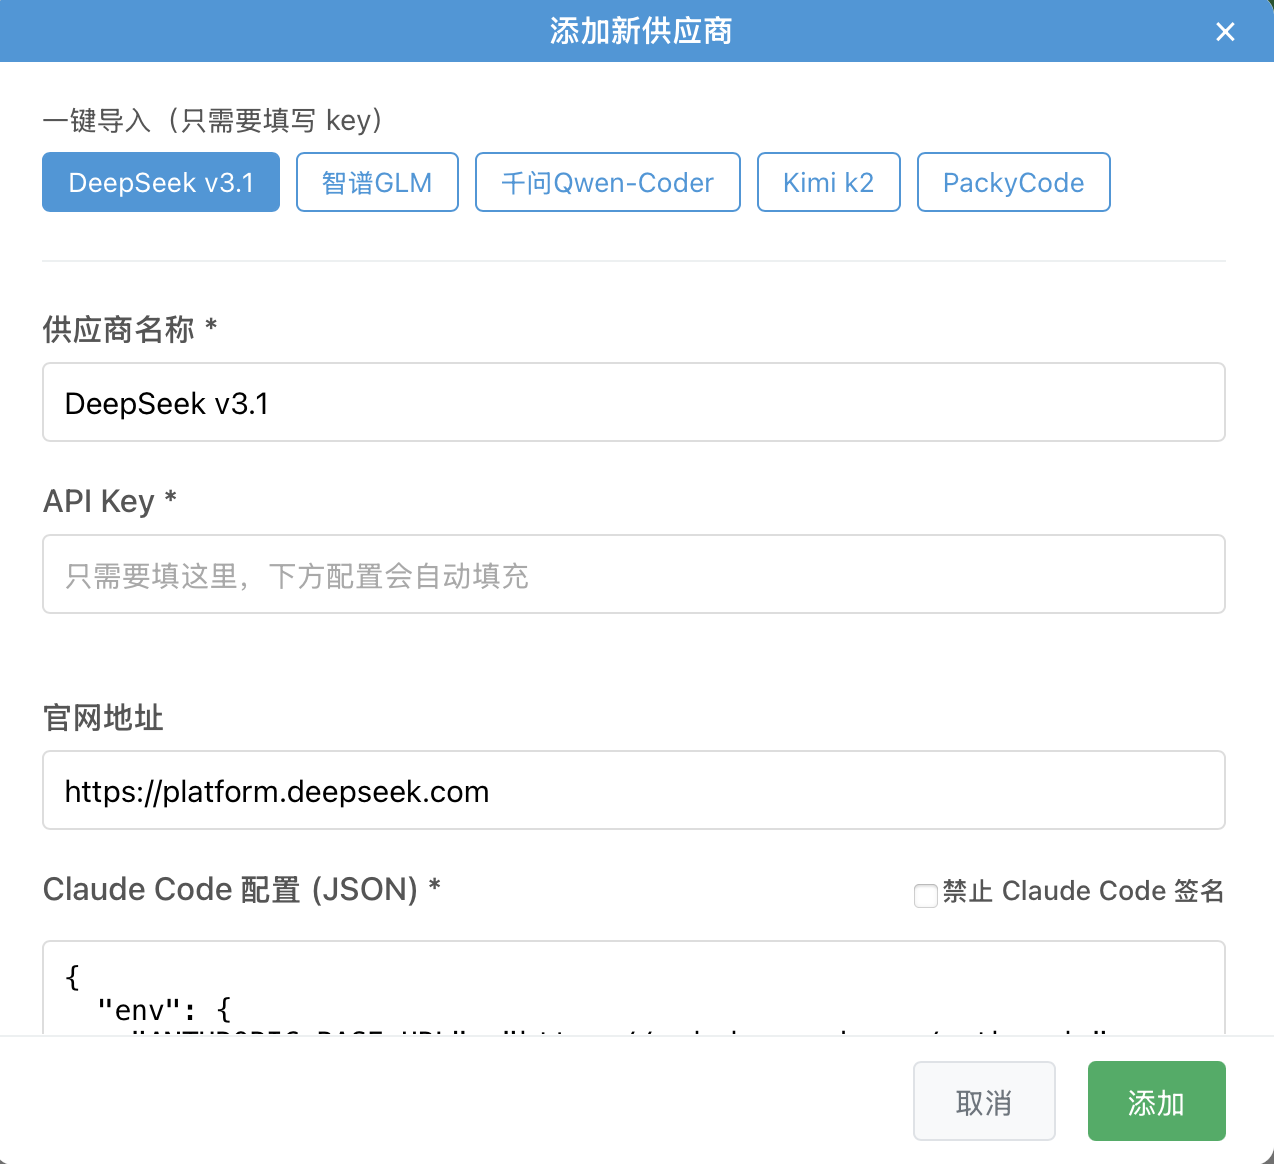
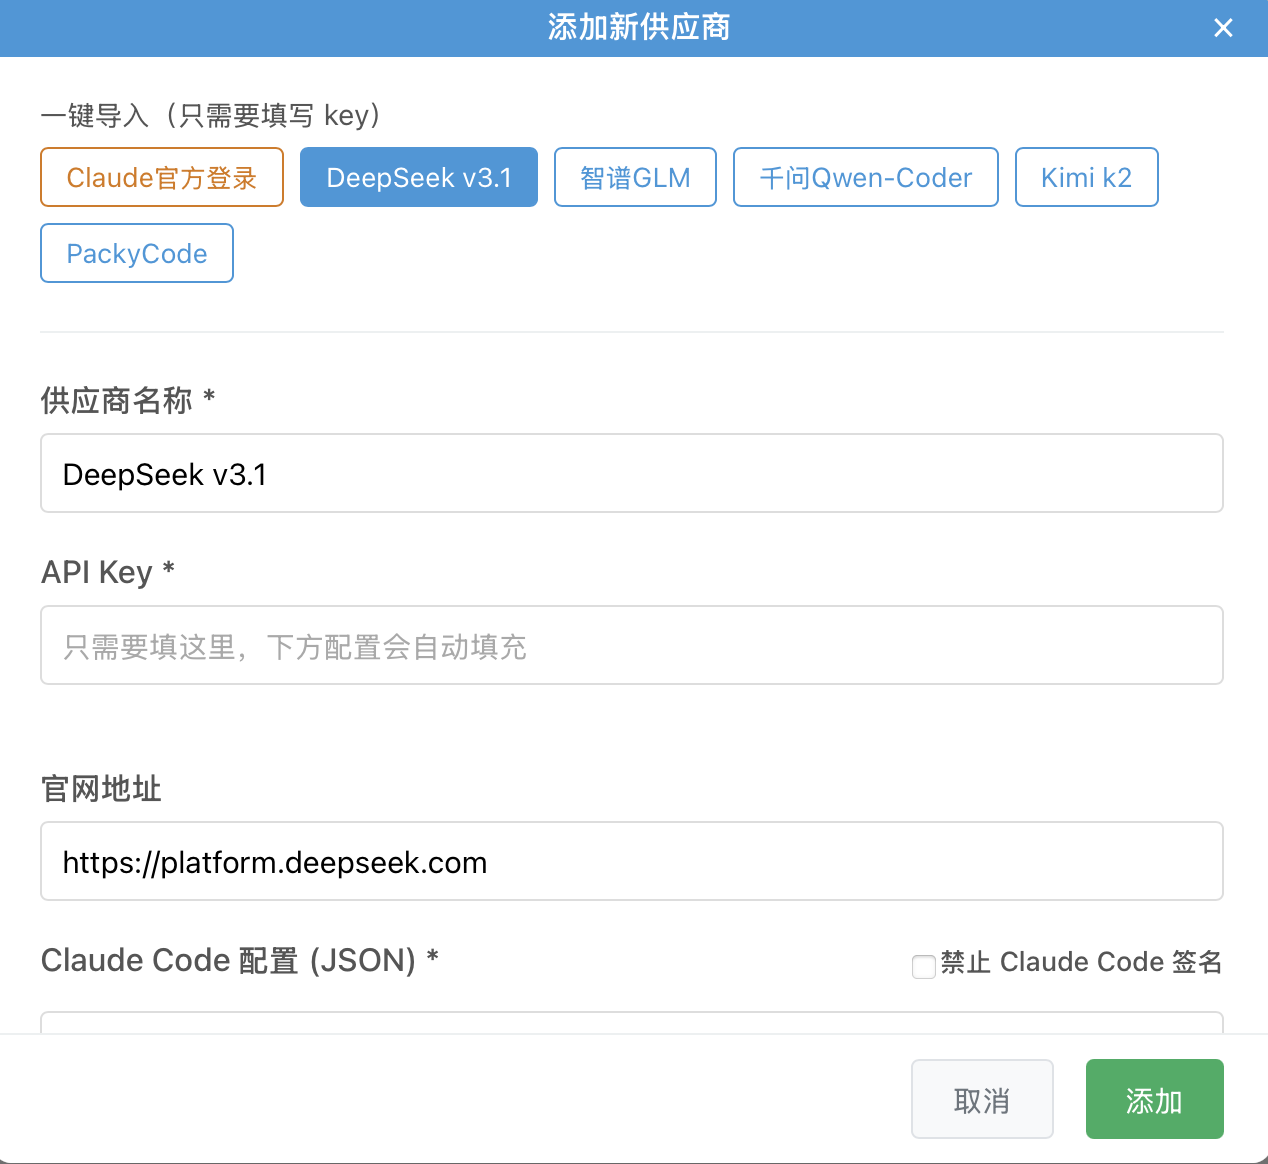
feat: add prettier formatter and MIT license
- Add prettier dev dependency for code formatting
- Create MIT LICENSE file
- Format TypeScript files with prettier
- Update provider order in README (Qwen coder first)
- Update add provider screenshot with new UI

diff --git a/src/components/ProviderForm.tsx b/src/components/ProviderForm.tsx
@@ -171,7 +171,8 @@ const ProviderForm: React.FC<ProviderFormProps> = ({
     selectedPreset !== null || hasApiKeyField(formData.settingsConfig);
 
   // 判断当前选中的预设是否是官方
-  const isOfficialPreset = selectedPreset !== null && 
+  const isOfficialPreset =
+    selectedPreset !== null &&
     providerPresets[selectedPreset]?.isOfficial === true;
 
   // 初始时从配置中同步 API Key（编辑模式）
@@ -270,17 +271,22 @@ const ProviderForm: React.FC<ProviderFormProps> = ({
                 id="apiKey"
                 value={apiKey}
                 onChange={(e) => handleApiKeyChange(e.target.value)}
-                placeholder={isOfficialPreset 
-                  ? "官方登录无需填写 API Key，直接保存即可"
-                  : "只需要填这里，下方配置会自动填充"
+                placeholder={
+                  isOfficialPreset
+                    ? "官方登录无需填写 API Key，直接保存即可"
+                    : "只需要填这里，下方配置会自动填充"
                 }
                 disabled={isOfficialPreset}
                 autoComplete="off"
-                style={isOfficialPreset ? { 
-                  backgroundColor: '#f5f5f5', 
-                  cursor: 'not-allowed',
-                  color: '#999'
-                } : {}}
+                style={
+                  isOfficialPreset
+                    ? {
+                        backgroundColor: "#f5f5f5",
+                        cursor: "not-allowed",
+                        color: "#999",
+                      }
+                    : {}
+                }
               />
             </div>
 

diff --git a/src/config/providerPresets.ts b/src/config/providerPresets.ts
@@ -13,8 +13,7 @@ export const providerPresets: ProviderPreset[] = [
     name: "Claude官方登录",
     websiteUrl: "https://www.anthropic.com/claude-code",
     settingsConfig: {
-      env: {
-      },
+      env: {},
     },
     isOfficial: true, // 明确标识为官方预设
   },

diff --git a/README.md b/README.md
@@ -12,7 +12,7 @@
 
 - **极速启动** - 基于 Tauri 2.0，原生性能，秒开应用
 - 一键切换不同供应商
-- 智谱 GLM、Qwen coder、DeepSeek v3.1、packycode 等预设供应商只需要填写 key 即可一键配置
+- Qwen coder、kimi k2、智谱 GLM、DeepSeek v3.1、packycode 等预设供应商只需要填写 key 即可一键配置
 - 支持添加自定义供应商
 - 简洁美观的图形界面
 - 信息存储在本地 ~/.cc-switch/config.json，无隐私风险
